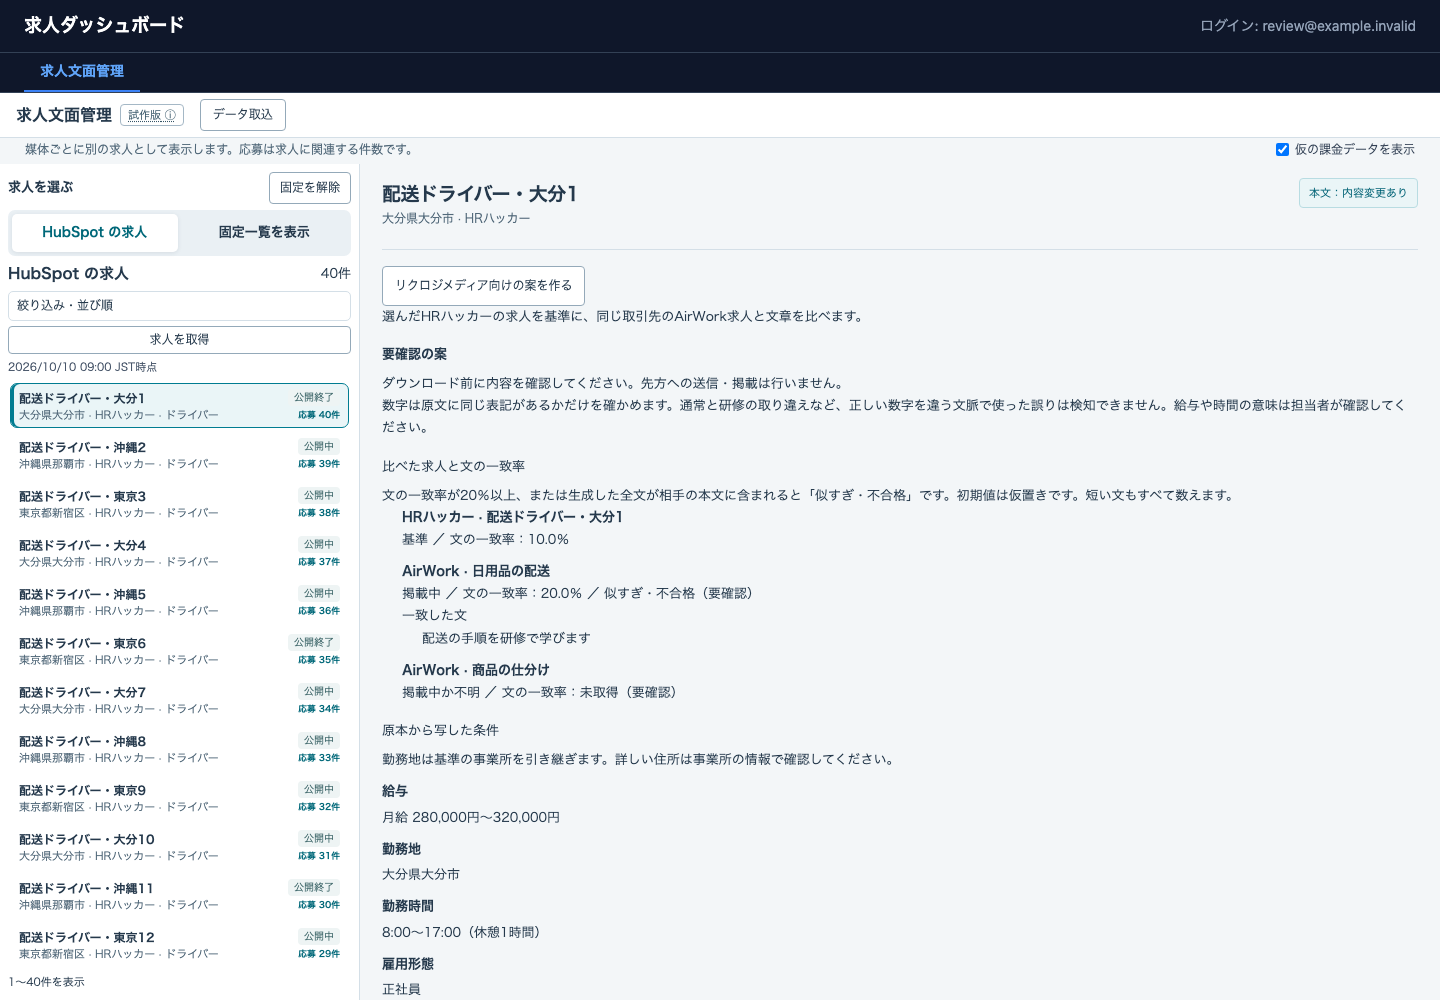
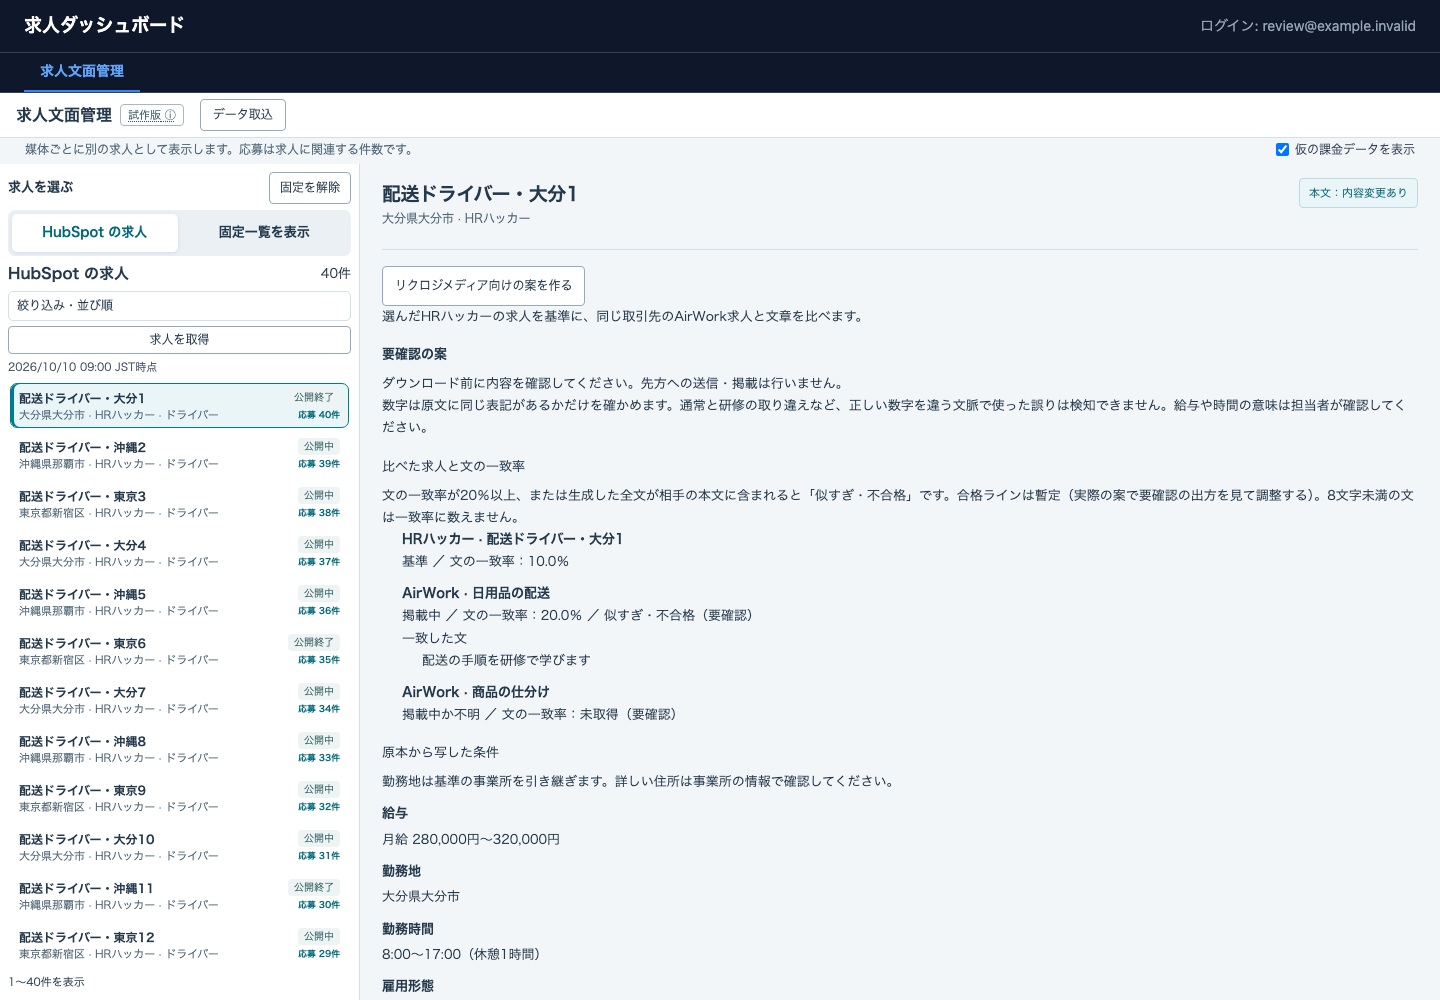
文の一致率で8文字未満を除外し、暫定の合格ラインを明記する

Changed region(s): [[0.25, 0.496, 0.5938, 1.0], [0.6562, 0.465, 0.9062, 0.527], [0.9375, 0.465, 0.9688, 0.496]]

diff --git a/frontend/src/screens/job-copy/RikuroziDraftPanel.test.tsx b/frontend/src/screens/job-copy/RikuroziDraftPanel.test.tsx
@@ -3,7 +3,7 @@ import { cleanup, fireEvent, render, screen, waitFor } from '@testing-library/re
 import { afterEach, describe, expect, it, vi } from 'vitest';
 import { RikuroziDraftPanel } from './RikuroziDraftPanel';
 import type { RikuroziDraft } from './RikuroziDraftPanel';
-const draft: RikuroziDraft = { review_required: true, threshold: 0.2, min_sentence_chars: 0, csv: '\ufeff求人id,店舗id\r\n1234567,4081\r\n', comparisons: [{ title: '倉庫の仕分け', media: 'AirWork', publication: '掲載中か不明', ratio: 0.2, too_similar: true, whole_match: false, matched_sentences: ['配送の手順を研修で学びます'] }, { title: '基準の求人', media: 'HRハッカー', publication: '基準', ratio: null, too_similar: false, whole_match: false, matched_sentences: [] }], copied: [{ label: '給与', value: '時給 1,200円〜1,400円', review: false, reason: null, missing_chunks: [] }, { label: '休日・休暇', value: null, review: true, reason: '原本から取得できていません。', missing_chunks: [] }], generated: [{ label: '仕事内容', value: null, review: true, reason: '原文にない数字の表記があるため空欄にしました。', missing_chunks: ['日給1100円'] }] };
+const draft: RikuroziDraft = { review_required: true, threshold: 0.2, min_sentence_chars: 8, csv: '\ufeff求人id,店舗id\r\n1234567,4081\r\n', comparisons: [{ title: '倉庫の仕分け', media: 'AirWork', publication: '掲載中か不明', ratio: 0.2, too_similar: true, whole_match: false, matched_sentences: ['配送の手順を研修で学びます'] }, { title: '基準の求人', media: 'HRハッカー', publication: '基準', ratio: null, too_similar: false, whole_match: false, matched_sentences: [] }], copied: [{ label: '給与', value: '時給 1,200円〜1,400円', review: false, reason: null, missing_chunks: [] }, { label: '休日・休暇', value: null, review: true, reason: '原本から取得できていません。', missing_chunks: [] }], generated: [{ label: '仕事内容', value: null, review: true, reason: '原文にない数字の表記があるため空欄にしました。', missing_chunks: ['日給1100円'] }] };
 afterEach(() => { cleanup(); vi.restoreAllMocks(); vi.unstubAllGlobals(); });
 describe('リクロジメディア向けの案', () => {
   it('要確認と未取得と重なりの具体値を示し、識別値・列名は表示しない', async () => {
@@ -14,6 +14,8 @@ describe('リクロジメディア向けの案', () => {
     expect(container.textContent).toContain('掲載中か不明 ／ 文の一致率：20.0％ ／ 似すぎ・不合格（要確認）');
     expect(container.textContent).toContain('文の一致率：未取得（要確認）');
     expect(container.textContent).toContain('時給 1,200円〜1,400円');
+    expect(container.textContent).toContain('8文字未満の文は一致率に数えません');
+    expect(container.textContent).toContain('合格ラインは暫定（実際の案で要確認の出方を見て調整する）');
     expect(container.textContent).toContain('休日・休暇（要確認）');
     expect(container.textContent).toContain('日給1100円');
     expect(container.textContent).toContain('配送の手順を研修で学びます');

diff --git a/frontend/src/screens/job-copy/RikuroziDraftPanel.tsx b/frontend/src/screens/job-copy/RikuroziDraftPanel.tsx
@@ -41,7 +41,7 @@ export function RikuroziDraftPanel({ listingId }: { listingId: string }) {
       <p>ダウンロード前に内容を確認してください。先方への送信・掲載は行いません。</p>
       <p>数字は原文に同じ表記があるかだけを確かめます。通常と研修の取り違えなど、正しい数字を違う文脈で使った誤りは検知できません。給与や時間の意味は担当者が確認してください。</p>
       <h4>比べた求人と文の一致率</h4>
-      <p>文の一致率が{(draft.threshold * 100).toLocaleString('ja-JP', { maximumSignificantDigits: 6 })}％以上、または生成した全文が相手の本文に含まれると「似すぎ・不合格」です。初期値は仮置きです。{draft.min_sentence_chars === 0 ? '短い文もすべて数えます。' : `${draft.min_sentence_chars.toLocaleString('ja-JP')}文字未満の文は一致率に数えません。`}</p>
+      <p>文の一致率が{(draft.threshold * 100).toLocaleString('ja-JP', { maximumSignificantDigits: 6 })}％以上、または生成した全文が相手の本文に含まれると「似すぎ・不合格」です。合格ラインは暫定（実際の案で要確認の出方を見て調整する）。{draft.min_sentence_chars === 0 ? '短い文もすべて数えます。' : `${draft.min_sentence_chars.toLocaleString('ja-JP')}文字未満の文は一致率に数えません。`}</p>
       <ul>{draft.comparisons.map((item, index) => <li key={index}><strong>{item.media} · {item.title}</strong><span>{item.publication} ／ 文の一致率：{item.ratio === null ? '未取得（要確認）' : `${(item.ratio * 100).toFixed(1)}％`}{item.too_similar && ' ／ 似すぎ・不合格（要確認）'}</span>
         {item.whole_match && <p>生成した全文が相手の本文に含まれています。</p>}
         {item.matched_sentences.length > 0 && <><span>一致した文</span><ul>{item.matched_sentences.map((sentence, sentenceIndex) => <li key={sentenceIndex}>{sentence}</li>)}</ul></>}

diff --git a/tests/e2e/rikurozi-draft-scenarios.ts b/tests/e2e/rikurozi-draft-scenarios.ts
@@ -4,7 +4,7 @@ import { test, expect } from '@playwright/test';
 const shots = path.resolve('docs/screenshots/rikurozi-draft');
 const csv = '\ufeff求人id,店舗id,画像1\r\n1234567,4081,https://example.invalid/one.jpg\r\n';
 const result = {
-  review_required: true, threshold: 0.2, min_sentence_chars: 0, csv,
+  review_required: true, threshold: 0.2, min_sentence_chars: 8, csv,
   comparisons: [
     { title: '配送ドライバー・大分1', media: 'HRハッカー', publication: '基準', ratio: 0.1, too_similar: false, whole_match: false, matched_sentences: [] },
     { title: '日用品の配送', media: 'AirWork', publication: '掲載中', ratio: 0.2, too_similar: true, whole_match: false, matched_sentences: ['配送の手順を研修で学びます'] },

diff --git a/src/job_gen/rikurozi.rs b/src/job_gen/rikurozi.rs
@@ -99,7 +99,7 @@ pub fn sentence_overlap(
     (ratio, whole, matches)
 }
 pub fn min_sentence_chars(raw: Option<&str>) -> anyhow::Result<usize> {
-    Ok(raw.unwrap_or("0").parse()?)
+    Ok(raw.unwrap_or("8").parse()?)
 }
 fn joined(row: &Row, columns: &[&str]) -> Option<String> {
     let values: Vec<_> = columns
@@ -754,11 +754,37 @@ mod tests {
             vec!["時給1200円", "2kg", "3ms"]
         );
         assert_eq!(threshold(None).unwrap(), 0.2);
-        assert_eq!(min_sentence_chars(None).unwrap(), 0);
+        assert_eq!(min_sentence_chars(None).unwrap(), 8);
+        assert_eq!(min_sentence_chars(Some("0")).unwrap(), 0);
         assert!(min_sentence_chars(Some("-1")).is_err());
         for value in ["NaN", "0", "-1", "1.01"] {
             assert!(threshold(Some(value)).is_err());
         }
+    }
+    #[test]
+    fn default_sentence_rules_exclude_short_sentences_and_reject_exact_threshold() {
+        let min_chars = min_sentence_chars(None).unwrap();
+        let limit = threshold(None).unwrap();
+        let generated = "未経験歓迎。配送の手順を学べます。荷物の確認を行います。安全の手順を学べます。作業の順番を学べます。道具の使い方を学べます。倉庫の整理を行います。梱包の手順を学べます。商品の確認を行います。周囲の仲間と協力します。担当の仕事に取り組みます。";
+        let mut s = source();
+        s.comparisons[0].body = "未経験歓迎。配送の手順を学べます。荷物の確認を行います。".into();
+        let generated_raw = json!({"job_description": generated});
+        let draft = finish(&s, &generated_raw, limit, min_chars).unwrap();
+        let comparison = &draft.comparisons[1];
+        assert_eq!(comparison.ratio, Some(0.2));
+        assert_eq!(
+            comparison.matched_sentences,
+            vec!["配送の手順を学べます", "荷物の確認を行います"]
+        );
+        assert!(comparison.too_similar);
+        assert_eq!(
+            sentences("七文字の文章だ。八文字の文章です。", min_chars),
+            vec!["八文字の文章です"]
+        );
+        s.comparisons[0].body = "未経験歓迎。配送の手順を学べます。".into();
+        let draft = finish(&s, &generated_raw, limit, min_chars).unwrap();
+        assert_eq!(draft.comparisons[1].ratio, Some(0.1));
+        assert!(!draft.comparisons[1].too_similar);
     }
     #[test]
     fn missing_original_conditions_and_unread_comparisons_remain_unknown() {

diff --git a/docs/architecture/rikurozi-draft-plan.md b/docs/architecture/rikurozi-draft-plan.md
@@ -15,7 +15,7 @@
 - 既存Geminiの事実抽出→原稿→84列、プロセス共通の制限を再利用。条件の数字を生成文に書かず、書くなら原文の表記のままという指示を加える。文字数・禁止表現の検査は既存と共通化し、数字にはリクロジ専用の表記一致だけを使う。
 - 84列の土台を原本から写し、生成対象5列だけを差し替える。制作メモは非公開のため空欄。CSVを作成・再読込して、転記列すべての値と列順を照合する。改行・空白も完全一致。違いがあればCSVを返さず要確認。求人・店舗・画像の各スロットも照合対象。
 - 数字はNFKC・桁区切りカンマ・空白をそろえ、原文全体にかたまりがそのまま含まれるかだけを見る。時刻を分へ換算する等の言い換えはしない。NFKCで面積の単位がm2になった場合も、単位内の数字を分離せず一つのかたまりとして扱う。通貨・面積・期間等の単位が原文と違う場合、数字だけの一致で通さない。「25万」等の桁を表す字もかたまりに含め、金額へ換算せず原文の表記と比べる。無かった表記を画面に示し、その生成列を空欄にする。
-- 全文が比較本文に含まれる場合は即不合格。句点・感嘆符・疑問符・改行で分割した文の一致率を相手ごとに計算し、一致した文を示す。内部空白や表現はそろえない。しきい値以上を不合格。しきい値は仮の0.2、短文の最短文字数は0。除外後に文が無い場合は未取得。
+- 全文が比較本文に含まれる場合は即不合格。句点・感嘆符・疑問符・改行で分割した文の一致率を相手ごとに計算し、一致した文を示す。内部空白や表現はそろえない。しきい値以上を不合格。しきい値は仮の0.2、短文の最短文字数は暫定の8（2026-10-11ユーザー決定）。合格ラインは暫定（実際の案で要確認の出方を見て調整する）。除外後に文が無い場合は未取得。
 
 ## 実測
 

diff --git a/docs/architecture/rikurozi-media-api-spec.md b/docs/architecture/rikurozi-media-api-spec.md
@@ -30,7 +30,8 @@
 
 「全文で検知 → 細かい単位で特定」を採用する。通常/研修、勤務/休憩、開始/終了、給与形態などの意味の照合と文字3-gramの判定を廃止し、6.2の表記・文一致の検査へ置き換える。以前の数字の照合・似すぎ判定より本決定を優先する。
 CSV作成後に転記列を原本と完全一致で確認し、1列でも違えば出力を止めて要確認。原本の改行も保持する。生成文に原文にない数字のかたまりがあればその列を空欄・要確認にして、かたまりを表示する。
-文の一致率のしきい値は `RIKUROZI_OVERLAP_THRESHOLD`（仮の初期値0.2）、最短文字数は `RIKUROZI_MIN_SENTENCE_CHARS`（初期値0、空文を除きすべて数える）。実測でしきい値を決めるため、最大200社の同じ取引先の求人を読み取り専用で測る。本文・名称・識別値は保存しない。
+文の一致率のしきい値は `RIKUROZI_OVERLAP_THRESHOLD`（仮の初期値0.2）、最短文字数は `RIKUROZI_MIN_SENTENCE_CHARS`（暫定の初期値8、8文字未満を数えない）。実測でしきい値を決めるため、最大200社の同じ取引先の求人を読み取り専用で測る。本文・名称・識別値は保存しない。
+合格ラインは暫定（実際の案で要確認の出方を見て調整する）。0.2未満を合格とし、0.2ちょうどは不合格。2026-10-11のユーザー決定により、短文の既定値を0から8へ変更した。
 意味の違いは検知できないため、担当者が確認する。生成の指示には「条件の数字は生成する列に書かない。書くなら原文の表記のまま」と明記する。
 
 ### 0.2 先方に聞くこと
